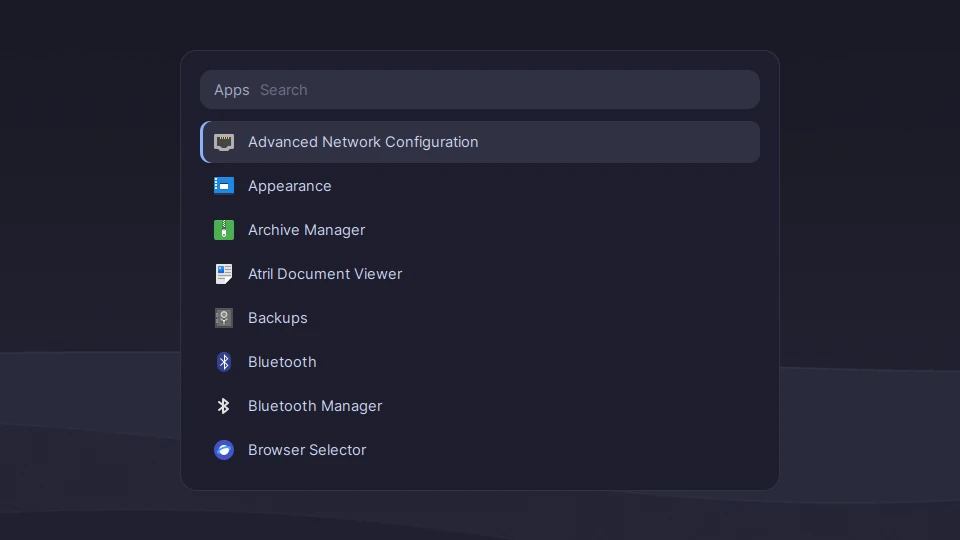
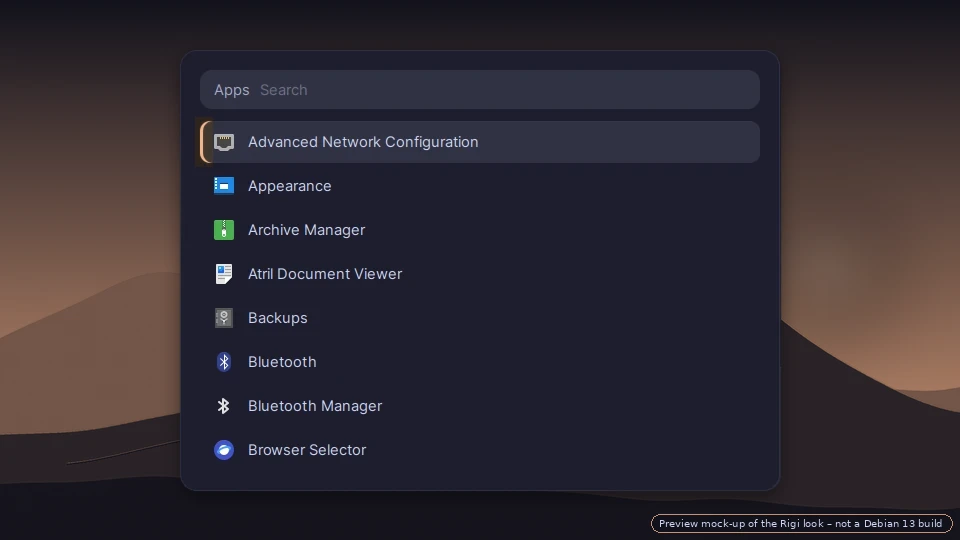
README screenshots: peach accent and Rigi wallpaper as an edited preview, with a clear note that no Debian 13 port exists yet

diff --git a/README.md b/README.md
@@ -19,10 +19,15 @@
   &nbsp;·&nbsp; <a href="https://github.com/FreakySneaky787/Simple-OS/issues/new/choose">Report a bug</a>
 </p>
 
+> [!WARNING]
+> **The pictures below are a preview ("show") of the planned Rigi look, not real 2.0 screenshots.** They are
+> edited screenshots of Simple OS 1.x (Debian 12): peach accent color and the new wallpaper added by hand. **A real
+> Debian 13 port does not exist yet** (issue #50); real screenshots replace these once the first 2.0 preview ISO is out.
+
 | | |
 |---|---|
-| <img src="docs/screenshots/desktop.webp" alt="The desktop with the file manager" width="100%"><br>The desktop | <img src="docs/screenshots/setup-wizard.webp" alt="Setup Wizard, choosing the web browser" width="100%"><br>Setup Wizard on the first login |
-| <img src="docs/screenshots/control-center.webp" alt="Control Center, Appearance page" width="100%"><br>Control Center | <img src="docs/screenshots/app-menu.webp" alt="App menu with search" width="100%"><br>App menu |
+| <img src="docs/screenshots/desktop.webp?v=2" alt="Preview: the desktop with the file manager" width="100%"><br>The desktop | <img src="docs/screenshots/setup-wizard.webp?v=2" alt="Setup Wizard, choosing the web browser" width="100%"><br>Setup Wizard on the first login |
+| <img src="docs/screenshots/control-center.webp?v=2" alt="Control Center, Appearance page" width="100%"><br>Control Center | <img src="docs/screenshots/app-menu.webp?v=2" alt="App menu with search" width="100%"><br>App menu |
 
 ## System requirements
 
